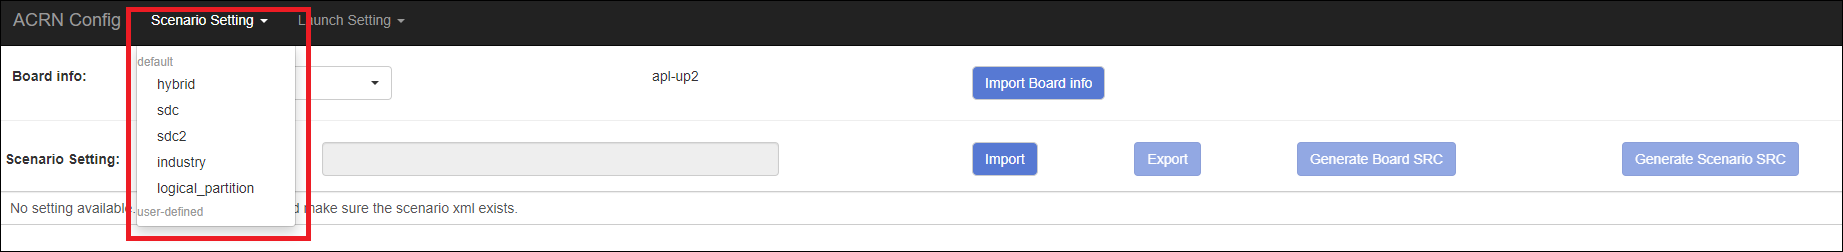
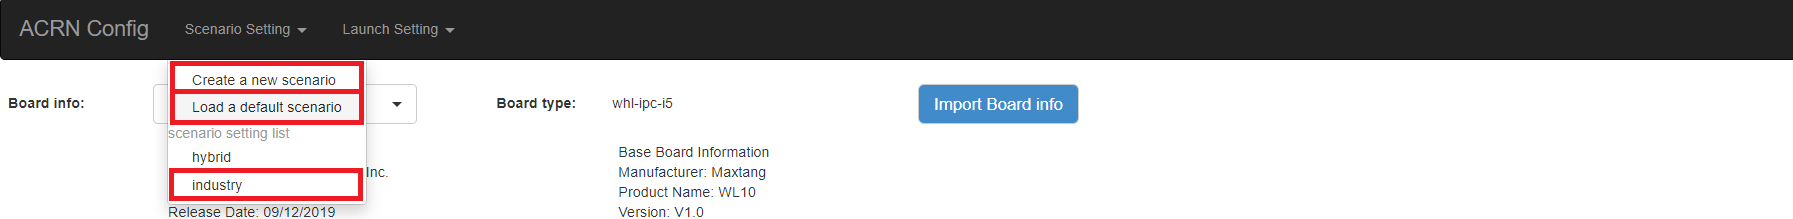
doc: add dynamic config in web app of acrn configuration tool
Add document to dynamically create scenario config and launch config,
dynamically add or delete VM settings in scenario and launch config
in web app of acrn configuration tool

Changed region(s): [[0.0, 0.0, 1.0, 1.0], [0.6871, 0.5479, 0.812, 0.7123]]

diff --git a/doc/tutorials/acrn_configuration_tool.rst b/doc/tutorials/acrn_configuration_tool.rst
@@ -403,10 +403,12 @@ The ACRN configuration app is a web user interface application that performs the
 
 - reads board info
 - configures and validates scenario settings
-- automatically generates patches for board-related configurations and
+- automatically generates source codes for board-related configurations and
   scenario-based VM configurations
 - configures and validates launch settings
 - generates launch scripts for the specified post-launched User VMs.
+- dynamically creates a new sceanrio setting, add or delete VM settings in sceanrio settings
+- dynamically creates a new launch setting, add or delete UOS settings in launch settings
 
 Prerequisites
 =============
@@ -466,19 +468,31 @@ Instructions
       .. figure:: images/select_board_info.png
          :align: center
 
-#. Choose a scenario from the **Scenario Setting** menu which lists all the scenarios,
-   including the default scenarios and the user-defined scenarios for the board you selected
-   in the previous step. The scenario configuration xmls are located at
+#. Load or create the scenario setting by: 
+
+   - choosing a scenario from the **Scenario Setting** menu which lists all the user defined
+     scenarios for the board you selected in the previous step.
+
+   - clicking the **Create a new scenario** from the **Scenario Setting** menu to dynamically
+     create a new scenario setting for the current board.
+
+   - clicking the **Load a default scenario** from the **Scenario Setting** menu, and then select
+     one default scenario setting to load a default scenario setting for the current board.
+
+   The default scenario configuration xmls are located at
    ``acrn-hypervisor/misc/acrn-config/xmls/config-xmls/[board]/``.
+   We can edit the scenario name when creating or loading a sceanrio. If the current scenario
+   name is duplicated with an existed scenario setting name, we can rename the current scenario
+   name or overwrite the existed one after the confirmation message.
 
    .. figure:: images/choose_scenario.png
       :align: center
 
-   Note that you can also use a customized scenario xml by clicking **Import**.
+   Note that you can also use a customized scenario xml by clicking **Import XML**.
    The configuration app automatically directs to the new scenario xml once the import is complete.
 
-#. The configurable items display after one scenario is selected. Here is
-   the example of "SDC" scenario:
+#. The configurable items display after one scenario is created or loaded or selected. Here is
+   the example of "industry" scenario:
 
    .. figure:: images/configure_scenario.png
       :align: center
@@ -490,7 +504,20 @@ Instructions
 
    - Hover the mouse pointer over the item to display the description.
 
-#. Click **Export** to save the scenario xml; you can rename it in the pop-up modal.
+#. To dynamically add or delete VMs, 
+
+   - click **Add a VM below** in one VM setting, and then select one VM type to add a new VM under
+     current VM.
+
+   - click **Remove this VM** in one VM setting to remove current VM for the scenario setting.
+
+   When one VM is added or removed in the scenario setting, the configuration app will re-assign
+   the VM IDs for remaning VMs by the order of Pre-launched VMs, SOS VMs, Post-launched VMs.
+
+   .. figure:: images/configure_vm_add.png
+      :align: center
+
+#. Click **Export XML** to save the scenario xml; you can rename it in the pop-up modal.
 
    .. note:: All customized scenario xmls will be in user-defined groups which located in
       ``acrn-hypervisor/misc/acrn-config/xmls/config-xmls/[board]/user_defined/``.
@@ -503,28 +530,46 @@ Instructions
       :align: center
 
    After the scenario is saved, the page automatically directs to the saved scenario xmls.
-   You can delete the configured scenario by clicking **Export** -> **Remove**.
+   You can delete the configured scenario by clicking **Export XML** -> **Remove**.
 
-#. Click **Generate Board SRC** to save the current scenario setting and then generate
-   a patch for the board-related configuration source codes in
-   ``acrn-hypervisor/hypervisor/arch/x86/configs/[board]/``.
+#. Click **Generate configuration files** to save the current scenario setting and then
+   generate files for the board-related configuration source codes and scenario-based VM
+   configraution source codes.
 
-#. Click **Generate Scenario SRC** to save the current scenario setting and then generate
-   a patch for the scenario-based VM configuration scenario source codes in
+   If **Source Path** in the pop-up modal is edited, the source codes are generated into
+   the edited Source Path relative to ``acrn-hypervisor``; otherwise the source codes are
+   generated into the default folders and overwrite the old ones, where the board-releated
+   configuration source codes are in
+   ``acrn-hypervisor/hypervisor/arch/x86/configs/[board]/``,
+   the scenario-based VM configuration source codes are in
    ``acrn-hypervisor/hypervisor/scenarios/[scenario]/``.
 
 The **Launch Setting** is quite similar to the **Scenario Setting**:
 
 #. Upload board info or select one board as the current board.
 
-#. Import your local launch setting xml by clicking **Import** or selecting one launch setting xml from the menu.
+#. Load or create one launch setting by
+
+   - clicking **Create a new lauch script** from the **Launch Setting** menu,
+
+   - clicking **Load a default launch script** from the **Launch Setting** menu,
+
+   - selecting one launch setting xml from the menu.
+
+   - importing the local launch setting xml by clicking **Import XML**,
 
 #. Select one scenario for the current launch setting from the **Select Scenario** drop down box.
 
 #. Configure the items for the current launch setting.
 
+#. To dynamically add or remove UOS launch scripts,
+
+   - add an UOS launch script by clicking **Configure an UOS below** for the current launch setting.
+
+   - remove an UOS launch script by clicking **Remove this VM** for current launch setting.
+
 #. Save the current launch setting to the user-defined xml files by
-   clicking **Export**. The configuration app validates the current
+   clicking **Export XML**. The configuration app validates the current
    configuration and lists all wrong configurable items and shows errors.
 
 #. Click **Generate Launch Script** to save the current launch setting and then generate the launch script.
